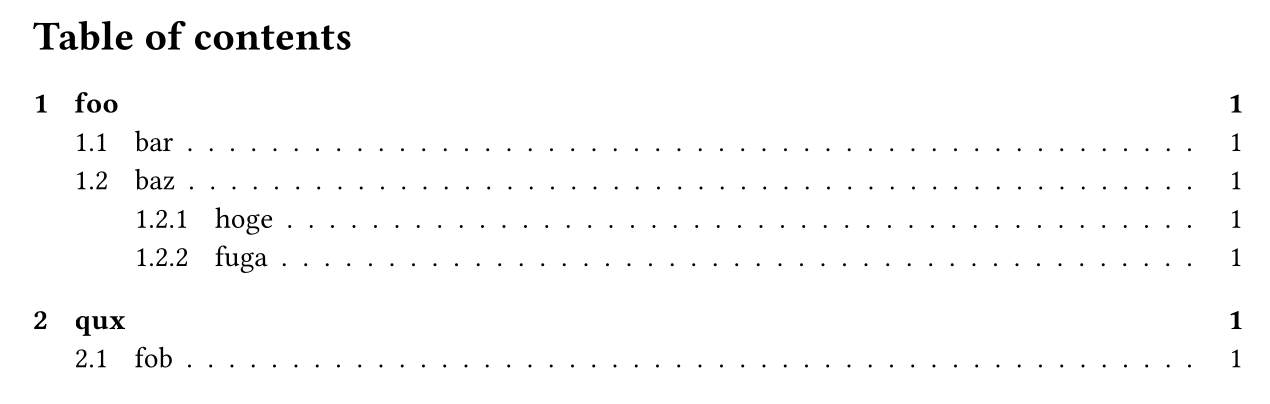
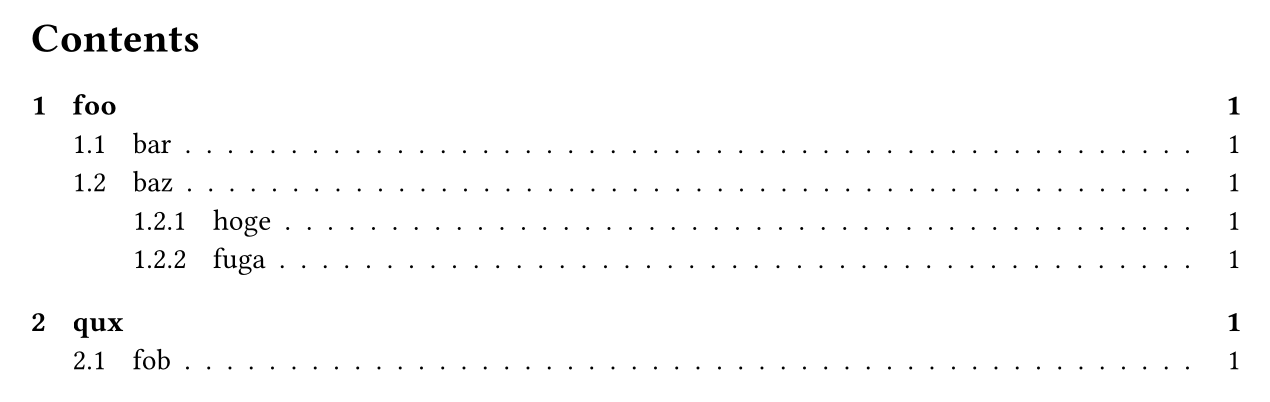
outline: revert to original outline title (and remove hack)

diff --git a/README.md b/README.md
@@ -28,9 +28,9 @@ After (with `latex-lookalike.style-outline` applied):
 
 # Local development
 
-Run the following commands to make the package available for local development to Typst under the import path `@local/latex-lookalike:0.1.2`.
+Run the following commands to make the package available for local development to Typst under the import path `@local/latex-lookalike:0.1.3`.
 ```bash
 git clone https://github.com/mewmew/latex-lookalike
 mkdir -p ~/.local/share/typst/packages/local/latex-lookalike
-ln -s "$(realpath latex-lookalike)"  ~/.local/share/typst/packages/local/latex-lookalike/0.1.2
+ln -s "$(realpath latex-lookalike)"  ~/.local/share/typst/packages/local/latex-lookalike/0.1.3
 ```
